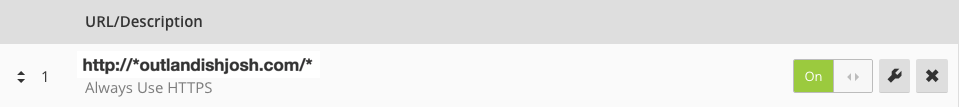
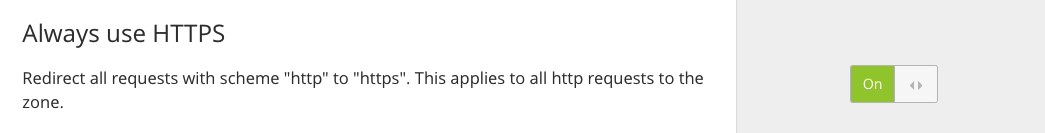
Clean up, align with other dns provider docs, provide steps to locate cname value first, reorganized, add ttl back in

diff --git a/source/_docs/dns-providers/cloudflare.md b/source/_docs/dns-providers/cloudflare.md
@@ -7,6 +7,8 @@ tags: [providers]
 permalink: docs/:basename/
 editpath: dns-providers/cloudflare.md/
 ---
+You can stack Cloudflare as a CDN on top of Pantheon's Global CDN, or use Cloudflare for DNS only. We recommend Cloudflare as a CDN only if you're paying for advanced features like a WAF, or if you have custom Cloudflare configurations (e.g. many page rules) you'd like to keep.
+
 ## Before You Begin
 Be sure that you have a:
 
@@ -14,45 +16,59 @@ Be sure that you have a:
 - [Paid Pantheon plan](/docs/guides/launch/plans/)
 - [Domain connected](/docs/guides/launch/domains/) to the target Pantheon environment (typically Live)
 
-## When to use Cloudflare as a CDN?
+## Locate Pantheon's DNS Values
+Identify DNS values to point your domain to Pantheon:
 
-You can layer Cloudflare as a CDN on top of Pantheon's Global CDN, or use Cloudflare for DNS only. Use Cloudflare as a CDN if you are paying for advanced features like a WAF, or if you have custom Cloudflare configurations (e.g. many page rules) you'd like to keep.
-
-### Cloudflare: DNS only
-Use Cloudflare for DNS only by clicking the orange cloud to turn it grey in Cloudflare's **DNS** settings.
-
-![Example DNS only](/source/docs/assets/images/cloudflare-dns-only.png)
-
-### Using Cloudflare CDN with Pantheon's Global CDN
-
-For best results ensure the following Cloudflare configuration:
-
-* SSL mode is set to **Full** in Cloudflare's **Crypto** settings.
-  ![Enable SSL](/source/docs/assets/images/cloudflare-ssl.png)
-* Redirect all traffic to HTTPS in Cloudflare **and** within WordPress or Drupal to avoid mixed content warnings and infinite redirect errors.
-  - Add a *Page Rule* in Cloudflare to always use HTTPS:
-    ![Cloudflare Page Rules](/source/docs/assets/images/cloudflare-always-https.png)
-  - Redirect all traffic to HTTPS within WordPress or Drupal. See [Redirect to a Primary Domain](/docs/guides/launch/redirects/).
+1. Navigate to the Site Dashboard and select the target environment (typically <span class="glyphicons glyphicons-cardio"></span> Live) then click **<span class="glyphicons glyphicons-home"></span> Domains & HTTPS**.
+2. Click the **DNS Recommendations** button next to the `www` domain and copy the CNAME value (e.g. `live-example.pantheonsite.io`).
+3. Login to your <a href="https://www.cloudflare.com/a/login" target="blank">Cloudflare account <span class="glyphicons glyphicons-new-window-alt"></span></a> in a new tab before you continue.
 
 ## Configure DNS Records on Cloudflare
+Cloudflare offers the ability to use a CNAME for the "root" domain for your site through something they call CNAME Flattening. We recommend you take advantage of this feature as it frees you up from being tied to a single IP address. Apply one of the following configurations according to your site's CDN requirements at Cloudflare.
 
-Cloudflare offers the ability to use a CNAME for the "root" domain for your site through something they call CNAME Flattening. We recommend you take advantage of this feature as it frees you up from being tied to a single IP address. Ignore any Pantheon Dashboard recommendation for A/AAAA record and add a CNAME instead.
+### Disable Cloudflare's CDN and Configure DNS
+Unless you're paying for advanced features or if you have custom configurations (e.g. many page rules) you'd like to keep, turn off Cloudflare's CDN so that only DNS hosting services are used:
 
-### CNAME Record
+1. Select **DNS** from the menu bar.
+2. Select **CNAME** from the dropdown menu.
+3. Enter `www` in the **Name** field and paste the CNAME record value provided by Pantheon (e.g. `live-example.pantheonsite.io`) in the **Domain name** field.
+4. Create another **CNAME** record for the bare domain (e.g. `example.com`) in the **Name** field with the
+5. Select desired Time to Live (TTL).
 
-![Example Add CNAME record](/source/docs/assets/images/cloudflare-dns-add-cname.png)
+  {% include("ttl.twig") %}
 
-1. Select **CNAME** from the dropdown menu.
-2. Enter the domain to point to Pantheon in the **Name** field and the CNAME record value provided by Pantheon (e.g. `live-example.pantheonsite.io`) in the **Domain name** field.
-3. Select desired Time to Live (TTL).
-4. Disable Cloudflare's CDN by clicking the cloud icon (should be gray, not orange).
-5. Click **Add Record**.
+6. Disable Cloudflare's CDN by clicking the cloud icon (should be gray, not orange).
+7. Click **Add Record**.
 
+  ![Example DNS only](/source/docs/assets/images/cloudflare-dns-only.png)
 
+This configuration routes traffic to Pantheon's Global CDN exclusively.
+
+### Stack Cloudflare's CDN with Pantheon and Configure DNS
+If you need access to paid features, you can configure Cloudflare's CDN as an additional layer to Pantheon's Global CDN service:
+
+1. Click **DNS** in the menu bar.
+2. Select **CNAME** from the dropdown menu.
+3. Enter `www` in the **Name** field and paste the CNAME record value provided by Pantheon (e.g. `live-example.pantheonsite.io`) in the **Domain name** field.
+4. Create another **CNAME** record for the bare domain (e.g. `example.com`) in the **Name** field with the
+5. Select desired Time to Live (TTL).
+
+  {% include("ttl2.twig") %}
+
+6. Click **Add Record**.
+7. Select **Crypto** from the menu bar and set the SSL mode to **Full**:
+  ![Enable SSL](/source/docs/assets/images/cloudflare-ssl.png)
+8. Scroll down and enable Automatic HTTPS Rewrites in the **Crypto** settings:
+  ![Cloudflare Always HTTPS](/source/docs/assets/images/cloudflare-always-https.png)
+
+    <div class="alert alert-danger">
+    <h4 class="info">Warning</h4>
+    <p markdown="1">To avoid mixed content warnings in the browser, you must redirect requests to HTTPS within Cloudflare as described here in addition to [redirecting via PHP within WordPress or Drupal as described in the next steps](/docs/guides/launch/redirects/).</p>
+    </div>
 
 ## Cloudflare Docs
 
-* <a href="https://support.cloudflare.com/hc/en-us/articles/200170536-How-do-I-redirect-all-visitors-to-HTTPS-SSL-" target="blank">How do I redirect all visitors to HTTPS/SSL?<span class="glyphicons glyphicons-new-window-alt"></span></a>
+* <a href="https://support.cloudflare.com/hc/en-us/articles/227227647-How-do-I-use-Automatic-HTTPS-Rewrites-" target="blank">How do I use Automatic HTTPS Rewrites?<span class="glyphicons glyphicons-new-window-alt"></span></a>
 
 
 ## Next Steps
